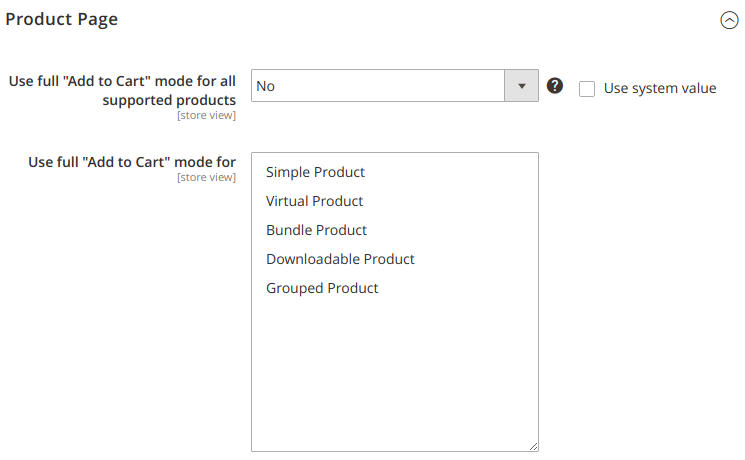
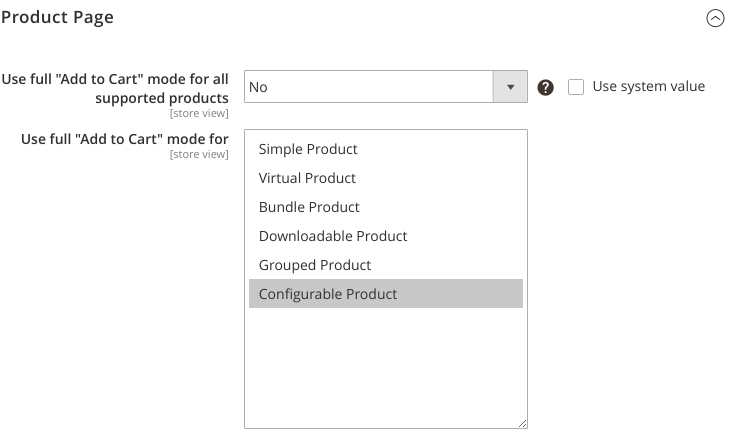
M2 AMP 1.2.0 release

diff --git a/m2/extensions/amp/configuration.md b/m2/extensions/amp/configuration.md
@@ -23,6 +23,14 @@ Use AMP for all supported pages | Set "No" to select supported pages manually
 Use AMP at | Select the pages that will use AMP
 Force AMP activation on | Allows to force AMP activation for mobile and tablet devices
 
+### Web
+
+![Web section](/images/m2/amp/configuration/section-web.png)
+
+Option | Description
+-------|------------
+Cookie Restriction Mode | Enable/Disable cookie restriction mode. This config depends on `Stores > Configuration > General > Web > Default Cookie Settings > Cookie Restriction Mode`.
+
 ### Product Page
 
 ![Product page section](/images/m2/amp/configuration/section-product.png)

diff --git a/m2/extensions/amp/changelog.md b/m2/extensions/amp/changelog.md
@@ -8,6 +8,20 @@ category: Accelerated Mobile Pages
 
 # Changelog
 
+### Version 1.2.0
+
+> Jan 4, 2019
+
+{% include gallery.html images=site.data.gallery.m2.amp.changelog.v120 class="phone-up-2 tablet-up-3 photoswipe scroll" %}
+
+ -  Cookie restriction mode added
+ -  Fixed language switcher in Magento 2.2.6+
+ -  Add to cart support for configurable products
+ -  Added AMP integration for the following extensions:
+    +  [Rich Snippets](/m2/extensions/richsnippets/)
+    +  [Highlight](/m2/extensions/highlight/)
+    +  [Attribute Pages](/m2/extensions/attributepages/)
+
 ### Version 1.0.0
 
  -  Initial release

diff --git a/m2/extensions/amp/index.md b/m2/extensions/amp/index.md
@@ -29,7 +29,6 @@ Following pages are supported:
     -  All product types are supported with and without custom options
     -  Configurable "Configure and Buy" and full "Add to Cart" modes
         are [available](configuration/#product-page)
-    -  Configurable products work in "Configure and Buy" mode only
 
 ### Contents
 
